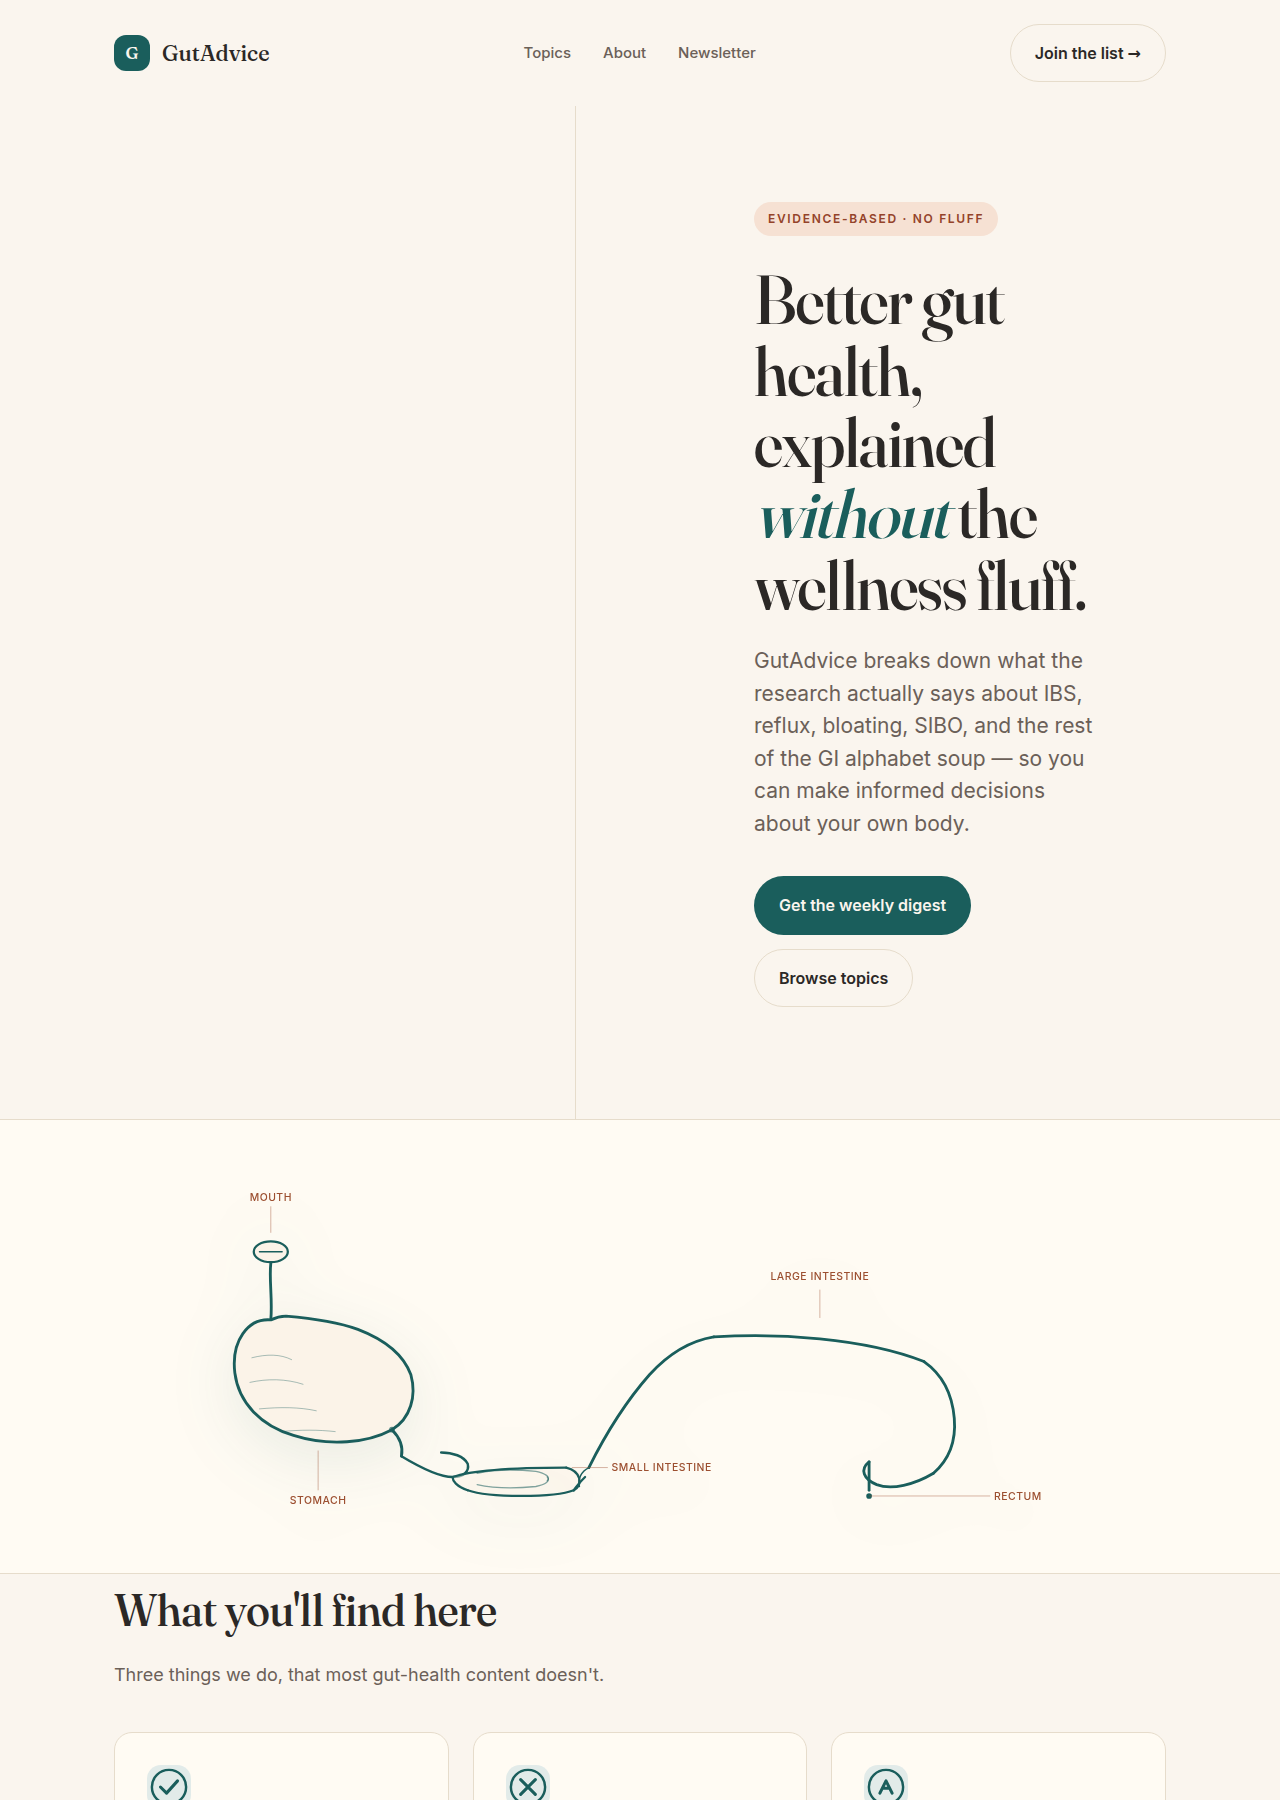
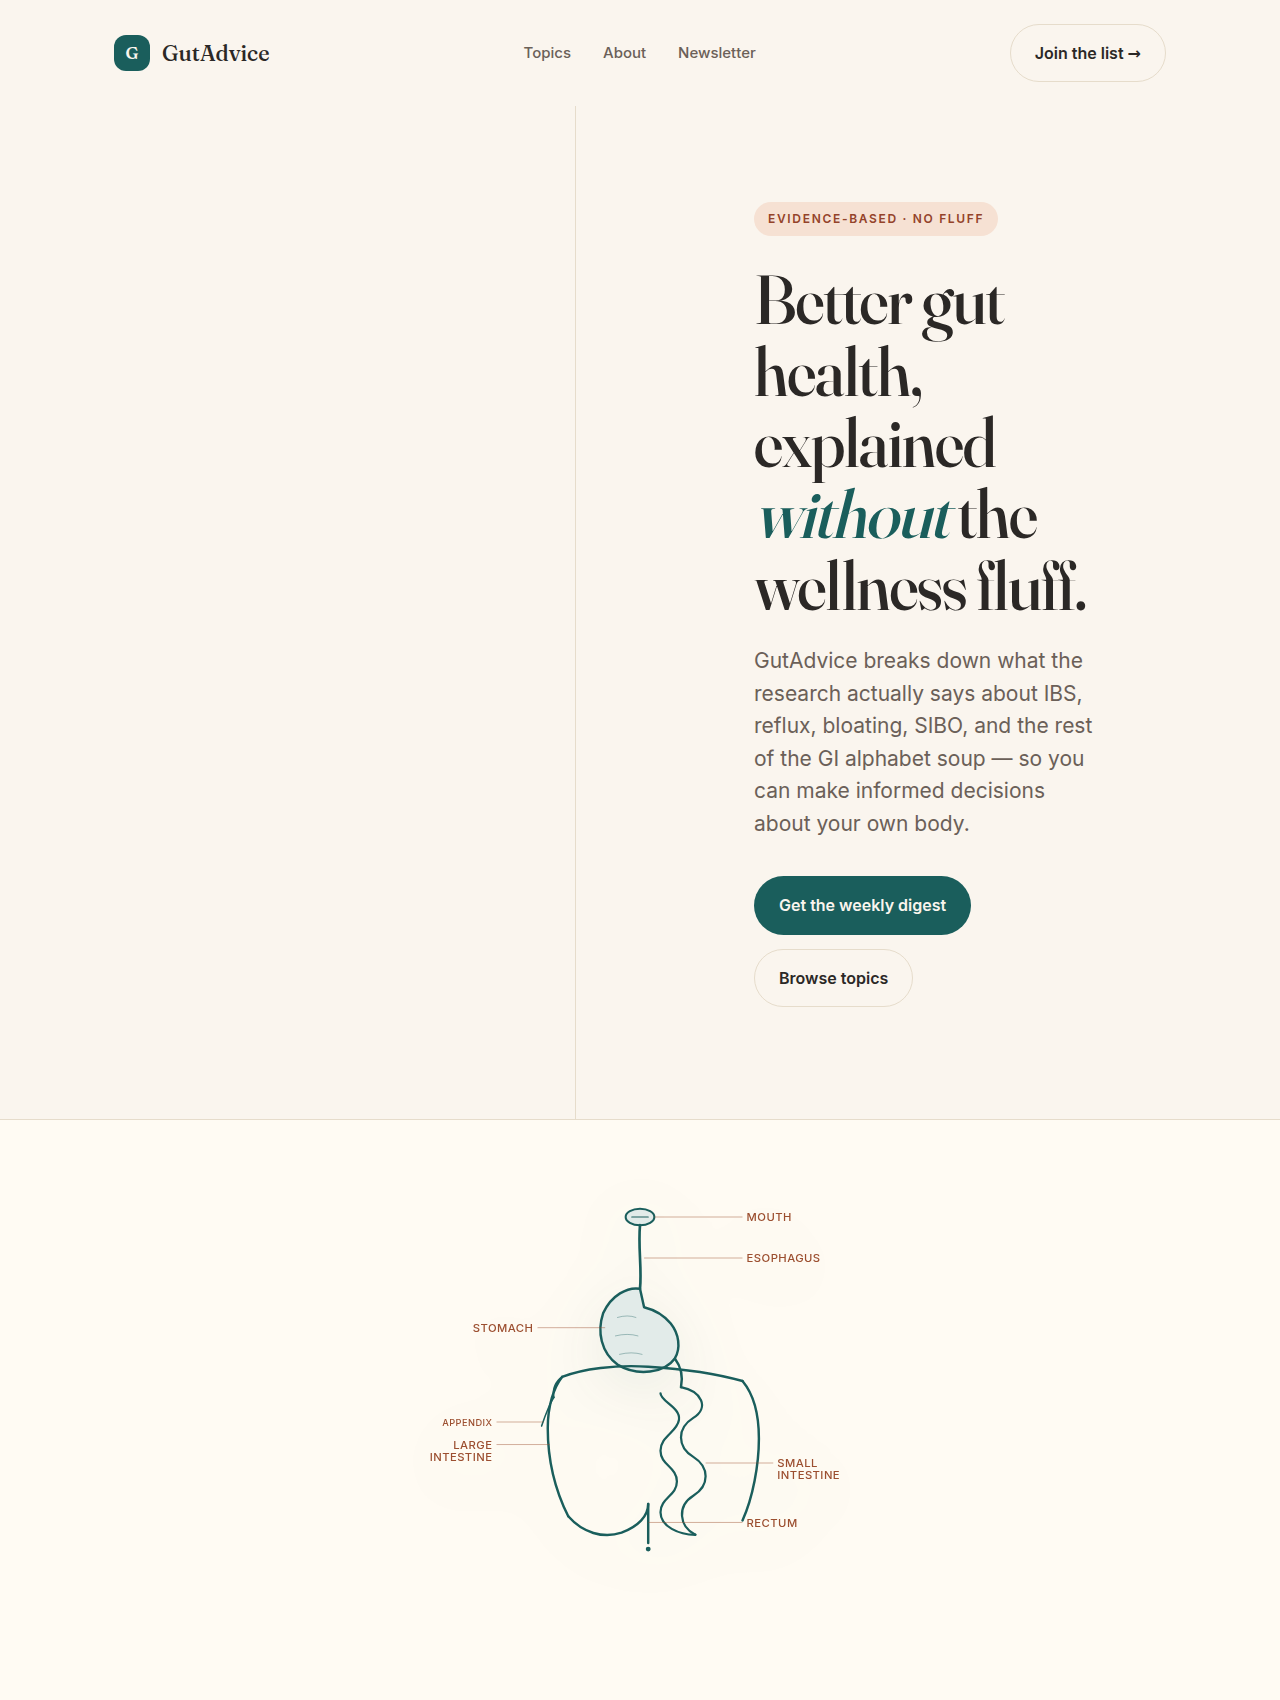
V1.5: swap illustration back to the PR #8 GI tract
Per founder reply on SHA-24 (2026-09-11 11:06 UTC):
'Recreate the first version of B, keep page layout the same, change
the illustration to the first GI tract illustration you made'

Interpretation:
  - 'first version of B' = the warm-clinical design (already current)
  - 'keep page layout the same' = V1.3 hero half-width on the right
    (already current) + V1.4 illust-section below it
  - 'first GI tract illustration' = the clinical line drawing I built
    in shadi-inc PR #8 (the very first GI tract illustration)

So this commit keeps everything from V1.3 and V1.4 (layout + design
system + sections) but swaps the V1.4 horizontal-flow modern
flat-medical illustration for the PR #8 vertical clinical line drawing
with all 7 organ labels (MOUTH, ESOPHAGUS, STOMACH, SMALL INTESTINE,
LARGE INTESTINE, RECTUM, APPENDIX).

Changes:
  - index.html: replaced the V1.4 <svg class="anatomy"> with the
    PR #8 SVG (same blob, just class changed from 'hero-illust' to
    'anatomy' to match the CSS). The viewBox is now 0 0 480 460
    (taller than wide, portrait) instead of V1.4's 900x360 (landscape).
  - site.css: .illust-inner max-width 900px -> 540px, .anatomy
    max-width 880px -> 520px (fits the narrower portrait illustration
    in the .illust-section).
  - preview-desktop.png re-rendered at 1280x1700 (taller viewport
    to show the full illustration in context).

The V1.3 hero layout (half-width on the right with the vertical
[…]

diff --git a/index.html b/index.html
@@ -49,159 +49,132 @@
       </div>
     </section>
 
-    <!-- ILLUSTRATION: full-width horizontal-flow GI tract. -->
+    <!-- ILLUSTRATION: PR #8 GI tract (clinical line drawing) -->
     <section class="illust-section">
       <div class="container illust-inner">
-        <svg class="anatomy" viewBox="0 0 900 360" aria-hidden="true" role="img" aria-label="Anatomical illustration of the gastrointestinal tract from mouth to rectum.">
-          <title>The gastrointestinal tract</title>
-          <desc>Anatomical line illustration of the full gastrointestinal tract flowing left to right: mouth, esophagus, stomach, small intestine, large intestine, rectum. Modern flat-medical aesthetic with warm palette and minimal labels.</desc>
+        <svg class="anatomy" viewBox="0 0 480 460" aria-hidden="true">
+        <title>The gastrointestinal tract</title>
+        <desc>Schematic of the human digestive system: mouth, esophagus, stomach, small intestine, large intestine, rectum.</desc>
 
-          <!-- Subtle background tint (very faint) -->
-          <rect x="0" y="0" width="900" height="360" fill="#fbf6ec" opacity="0"/>
+        <!-- Center the GI tract horizontally: anatomy occupies x ~150-330 (180 wide) -->
 
-          <!-- MOUTH (top-left) -->
-          <g id="illust-mouth">
-            <ellipse cx="60" cy="80" rx="18" ry="11"
-                     fill="#fbf3e8" stroke="#1a5e5c" stroke-width="2.4"/>
-            <line x1="48" y1="80" x2="72" y2="80" stroke="#1a5e5c" stroke-width="1.4" stroke-linecap="round"/>
-          </g>
+        <!-- Mouth / oral cavity (oval) -->
+        <g id="gi-mouth">
+          <ellipse cx="240" cy="40" rx="14" ry="8"
+                   fill="#e2ebe9" stroke="#1a5e5c" stroke-width="2"/>
+          <line x1="232" y1="40" x2="248" y2="40" stroke="#1a5e5c" stroke-width="1.2" stroke-linecap="round"/>
+        </g>
 
-          <!-- ESOPHAGUS (vertical tube from mouth down to stomach) -->
-          <g id="illust-esophagus">
-            <path d="M60 92 C 58 110, 62 130, 60 152"
-                  fill="none" stroke="#1a5e5c" stroke-width="3" stroke-linecap="round"/>
-          </g>
+        <!-- Esophagus -->
+        <g id="gi-esophagus">
+          <path d="M240 48 C 238 70, 242 90, 240 110"
+                fill="none" stroke="#1a5e5c" stroke-width="2.6" stroke-linecap="round"/>
+        </g>
 
-          <!-- STOMACH (J-shaped, larger and more central) -->
-          <g id="illust-stomach">
-            <path d="M60 152
-                     C 36 150, 18 174, 22 208
-                     C 26 240, 50 264, 84 274
-                     C 122 286, 162 282, 188 268
-                     C 208 256, 214 232, 208 210
-                     C 200 188, 178 172, 152 162
-                     C 130 154, 100 150, 76 148
-                     C 70 148, 64 150, 60 152 Z"
-                  fill="#fbf3e8" stroke="#1a5e5c" stroke-width="3" stroke-linejoin="round"/>
-            <!-- Stomach rugae (subtle inner folds) -->
-            <path d="M40 192 C 56 188, 70 188, 82 194"
-                  fill="none" stroke="#1a5e5c" stroke-width="1" stroke-linecap="round" opacity="0.4"/>
-            <path d="M38 218 C 56 214, 76 214, 94 220"
-                  fill="none" stroke="#1a5e5c" stroke-width="1" stroke-linecap="round" opacity="0.4"/>
-            <path d="M48 246 C 70 244, 90 244, 108 248"
-                  fill="none" stroke="#1a5e5c" stroke-width="1" stroke-linecap="round" opacity="0.4"/>
-            <path d="M70 270 C 92 268, 110 268, 128 270"
-                  fill="none" stroke="#1a5e5c" stroke-width="1" stroke-linecap="round" opacity="0.4"/>
-            <!-- Pylorus -->
-            <path d="M188 268 C 196 276, 200 286, 198 296"
-                  fill="none" stroke="#1a5e5c" stroke-width="3" stroke-linecap="round"/>
-            <circle cx="188" cy="268" r="3" fill="#1a5e5c" opacity="0.7"/>
-          </g>
+        <!-- Stomach (clearly J-shaped with fundus bulge and pylorus) -->
+        <g id="gi-stomach">
+          <path d="M240 110
+                   C 228 108, 212 116, 204 134
+                   C 198 152, 202 172, 218 184
+                   C 238 196, 264 192, 274 178
+                   C 280 168, 278 154, 270 144
+                   C 262 134, 252 130, 244 128
+                   Z"
+                fill="#e2ebe9" stroke="#1a5e5c" stroke-width="2.4" stroke-linejoin="round"/>
+          <!-- Stomach rugae (inner folds, subtle) -->
+          <path d="M218 138 q10 -3 18 0" fill="none" stroke="#1a5e5c" stroke-width="0.8" opacity="0.45" stroke-linecap="round"/>
+          <path d="M216 156 q12 -3 22 0" fill="none" stroke="#1a5e5c" stroke-width="0.8" opacity="0.45" stroke-linecap="round"/>
+          <path d="M220 174 q12 -3 22 0" fill="none" stroke="#1a5e5c" stroke-width="0.8" opacity="0.45" stroke-linecap="round"/>
+          <!-- Pylorus (exit to duodenum) -->
+          <path d="M274 178 C 280 186, 282 196, 280 206" fill="none" stroke="#1a5e5c" stroke-width="2.4" stroke-linecap="round"/>
+        </g>
 
-          <!-- DUODENUM (C-curve from pylorus to start of small intestine) -->
-          <g id="illust-duodenum">
-            <path d="M198 296
-                     C 218 308, 238 318, 252 318
-                     C 264 318, 270 312, 268 304
-                     C 264 296, 252 292, 240 292"
-                  fill="none" stroke="#1a5e5c" stroke-width="2.6" stroke-linecap="round"/>
-          </g>
+        <!-- Small intestine (coiled tube, 3 horizontal loops) -->
+        <g id="gi-small-intestine">
+          <path d="M280 206
+                   C 300 210, 308 226, 292 236
+                   C 276 246, 276 264, 292 274
+                   C 308 284, 308 302, 292 312
+                   C 276 322, 278 342, 294 350"
+                fill="none" stroke="#1a5e5c" stroke-width="2.2" stroke-linecap="round"/>
+          <path d="M294 350
+                   C 278 350, 260 342, 260 328
+                   C 260 314, 276 312, 276 298
+                   C 276 284, 260 282, 260 268
+                   C 260 254, 276 250, 278 238
+                   C 280 226, 260 220, 260 212"
+                fill="none" stroke="#1a5e5c" stroke-width="2.2" stroke-linecap="round"/>
+        </g>
 
-          <!-- SMALL INTESTINE (3-loop coiled tube, cleaner than PR #8's chaotic version) -->
-          <g id="illust-small-intestine">
-            <!-- Subtle fill behind the coils -->
-            <path d="M252 318
-                     C 270 310, 350 310, 372 308
-                     C 388 308, 392 322, 380 332
-                     C 360 342, 290 342, 268 332
-                     C 256 326, 252 320, 252 318 Z"
-                  fill="#fbf3e8" stroke="none" opacity="0.5"/>
-            <!-- Top curve -->
-            <path d="M252 318
-                     C 280 308, 350 308, 372 308"
-                  fill="none" stroke="#1a5e5c" stroke-width="2.4" stroke-linecap="round"/>
-            <!-- Right curve -->
-            <path d="M372 308
-                     C 388 312, 390 326, 380 332"
-                  fill="none" stroke="#1a5e5c" stroke-width="2.4" stroke-linecap="round"/>
-            <!-- Bottom curve -->
-            <path d="M380 332
-                     C 360 340, 290 340, 268 332"
-                  fill="none" stroke="#1a5e5c" stroke-width="2.4" stroke-linecap="round"/>
-            <!-- Left curve -->
-            <path d="M268 332
-                     C 256 328, 252 322, 252 318"
-                  fill="none" stroke="#1a5e5c" stroke-width="2.4" stroke-linecap="round"/>
-            <!-- Inner loops (2-3 horizontal squiggles inside the main loop) -->
-            <path d="M278 314
-                     C 296 310, 320 310, 340 312
-                     C 350 314, 356 318, 352 322"
-                  fill="none" stroke="#1a5e5c" stroke-width="1.4" stroke-linecap="round" opacity="0.55"/>
-            <path d="M278 326
-                     C 296 330, 320 330, 340 328
-                     C 350 326, 356 322, 352 318"
-                  fill="none" stroke="#1a5e5c" stroke-width="1.4" stroke-linecap="round" opacity="0.55"/>
-            <!-- End at the cecum/ascending colon entry point -->
-            <path d="M380 332
-                     C 384 326, 388 322, 392 318"
-                  fill="none" stroke="#1a5e5c" stroke-width="2.4" stroke-linecap="round"/>
-          </g>
+        <!-- Large intestine (frame around small intestine) -->
+        <g id="gi-large-intestine">
+          <!-- Ascending colon (viewer's left side) -->
+          <path d="M164 196
+                   C 156 206, 150 224, 150 246
+                   C 150 274, 156 304, 170 332"
+                fill="none" stroke="#1a5e5c" stroke-width="2.4" stroke-linecap="round"/>
+          <!-- Transverse colon (across the top, behind the stomach area) -->
+          <path d="M164 196
+                   C 184 188, 216 184, 248 186
+                   C 280 188, 312 192, 340 200"
+                fill="none" stroke="#1a5e5c" stroke-width="2.4" stroke-linecap="round"/>
+          <!-- Descending colon (viewer's right side) -->
+          <path d="M340 200
+                   C 350 212, 356 232, 356 256
+                   C 356 282, 350 314, 340 336"
+                fill="none" stroke="#1a5e5c" stroke-width="2.4" stroke-linecap="round"/>
+          <!-- Sigmoid colon (S-curve at the bottom) -->
+          <path d="M170 332
+                   C 184 348, 204 354, 222 348
+                   C 238 342, 248 332, 248 320"
+                fill="none" stroke="#1a5e5c" stroke-width="2.4" stroke-linecap="round"/>
+          <!-- Rectum (vertical) -->
+          <path d="M248 320 L 248 358"
+                fill="none" stroke="#1a5e5c" stroke-width="2.4" stroke-linecap="round"/>
+          <!-- Anus (small dot at the bottom) -->
+          <circle cx="248" cy="364" r="2.4" fill="#1a5e5c"/>
 
-          <!-- LARGE INTESTINE (frame around the small intestine on the right) -->
-          <g id="illust-large-intestine">
-            <!-- Ascending colon (going up on the right side, viewer's right) -->
-            <path d="M396 308
-                     C 410 280, 430 244, 460 210
-                     C 480 188, 504 174, 528 170"
-                  fill="none" stroke="#1a5e5c" stroke-width="3" stroke-linecap="round"/>
-            <!-- Transverse colon (across the top) -->
-            <path d="M528 170
-                     C 560 168, 600 168, 640 172
-                     C 680 176, 720 184, 750 196"
-                  fill="none" stroke="#1a5e5c" stroke-width="3" stroke-linecap="round"/>
-            <!-- Descending colon (going down on the right) -->
-            <path d="M750 196
-                     C 770 210, 780 232, 782 256
-                     C 784 280, 776 300, 760 314"
-                  fill="none" stroke="#1a5e5c" stroke-width="3" stroke-linecap="round"/>
-            <!-- Sigmoid colon (S-curve to rectum) -->
-            <path d="M760 314
-                     C 740 326, 716 332, 700 326
-                     C 686 320, 682 310, 692 302"
-                  fill="none" stroke="#1a5e5c" stroke-width="3" stroke-linecap="round"/>
-            <!-- Rectum (vertical) -->
-            <path d="M692 302 L 692 332"
-                  fill="none" stroke="#1a5e5c" stroke-width="3" stroke-linecap="round"/>
-            <!-- Anus (dot) -->
-            <circle cx="692" cy="338" r="3" fill="#1a5e5c"/>
+          <!-- Cecum (small pouch at the bottom of ascending colon) -->
+          <path d="M164 196 C 158 200, 154 208, 156 216" fill="none" stroke="#1a5e5c" stroke-width="1.6" stroke-linecap="round"/>
+          <!-- Appendix (small dangling bit from cecum) -->
+          <path d="M156 216 C 152 222, 148 232, 144 244" fill="none" stroke="#1a5e5c" stroke-width="1.5" stroke-linecap="round"/>
+        </g>
 
-            <!-- Cecum (small pouch at the start of ascending colon) -->
-            <path d="M396 308 C 388 312, 384 320, 386 328" fill="none" stroke="#1a5e5c" stroke-width="1.6" stroke-linecap="round"/>
-          </g>
+        <!-- Labels with thin connector lines.
+             GI tract sits at x~150-330; labels are placed in left and right
+             gutters (x: 10-140 left, 340-470 right). -->
+        <g id="gi-labels" font-family="Inter, sans-serif" font-size="11" font-weight="500" fill="#9c4f30" letter-spacing="0.04em">
+          <!-- Mouth (right) -->
+          <line x1="254" y1="40" x2="340" y2="40" stroke="#9c4f30" stroke-width="0.8" opacity="0.55"/>
+          <text x="344" y="44">MOUTH</text>
 
-          <!-- 4 minimal labels with thin terracotta connector lines -->
-          <g id="illust-labels" font-family="Inter, sans-serif" font-size="11" font-weight="500" fill="#9c4f30" letter-spacing="0.05em">
-            <!-- MOUTH (above the mouth) -->
-            <line x1="60" y1="60" x2="60" y2="32" stroke="#9c4f30" stroke-width="0.8" opacity="0.55"/>
-            <text x="60" y="26" text-anchor="middle">MOUTH</text>
+          <!-- Esophagus (right) -->
+          <line x1="244" y1="80" x2="340" y2="80" stroke="#9c4f30" stroke-width="0.8" opacity="0.55"/>
+          <text x="344" y="84">ESOPHAGUS</text>
 
-            <!-- STOMACH (below the stomach) -->
-            <line x1="110" y1="290" x2="110" y2="332" stroke="#9c4f30" stroke-width="0.8" opacity="0.55"/>
-            <text x="110" y="346" text-anchor="middle">STOMACH</text>
+          <!-- Stomach (left) -->
+          <line x1="206" y1="148" x2="140" y2="148" stroke="#9c4f30" stroke-width="0.8" opacity="0.55"/>
+          <text x="136" y="152" text-anchor="end">STOMACH</text>
 
-            <!-- SMALL INTESTINE (to the right of the coils, no connector line crossing the artwork) -->
-            <line x1="378" y1="308" x2="416" y2="308" stroke="#9c4f30" stroke-width="0.8" opacity="0.55"/>
-            <text x="420" y="312">SMALL INTESTINE</text>
+          <!-- Small intestine (right) -->
+          <line x1="304" y1="280" x2="370" y2="280" stroke="#9c4f30" stroke-width="0.8" opacity="0.55"/>
+          <text x="374" y="284">SMALL</text>
+          <text x="374" y="296">INTESTINE</text>
 
-            <!-- LARGE INTESTINE (above the frame) -->
-            <line x1="640" y1="150" x2="640" y2="120" stroke="#9c4f30" stroke-width="0.8" opacity="0.55"/>
-            <text x="640" y="110" text-anchor="middle">LARGE INTESTINE</text>
+          <!-- Large intestine (left) -->
+          <line x1="152" y1="262" x2="100" y2="262" stroke="#9c4f30" stroke-width="0.8" opacity="0.55"/>
+          <text x="96" y="266" text-anchor="end">LARGE</text>
+          <text x="96" y="278" text-anchor="end">INTESTINE</text>
 
-            <!-- RECTUM (below the rectum) -->
-            <line x1="692" y1="338" x2="820" y2="338" stroke="#9c4f30" stroke-width="0.8" opacity="0.55"/>
-            <text x="824" y="342">RECTUM</text>
-          </g>
-        </svg>
+          <!-- Rectum (right) -->
+          <line x1="248" y1="338" x2="340" y2="338" stroke="#9c4f30" stroke-width="0.8" opacity="0.55"/>
+          <text x="344" y="342">RECTUM</text>
+
+          <!-- Appendix (left, small label) -->
+          <line x1="146" y1="240" x2="100" y2="240" stroke="#9c4f30" stroke-width="0.8" opacity="0.55"/>
+          <text x="96" y="244" text-anchor="end" font-size="9">APPENDIX</text>
+        </g>
+      </svg>
       </div>
     </section>
 

diff --git a/site.css b/site.css
@@ -196,14 +196,14 @@ img, svg { max-width: 100%; display: block; }
   z-index: 1;
 }
 .illust-inner {
-  max-width: 900px;
+  max-width: 540px;
   margin: 0 auto;
   text-align: center;
 }
 .anatomy {
   width: 100%;
   height: auto;
-  max-width: 880px;
+  max-width: 520px;
   margin: 0 auto;
   filter: drop-shadow(0 16px 32px rgba(26, 94, 92, 0.10));
 }
